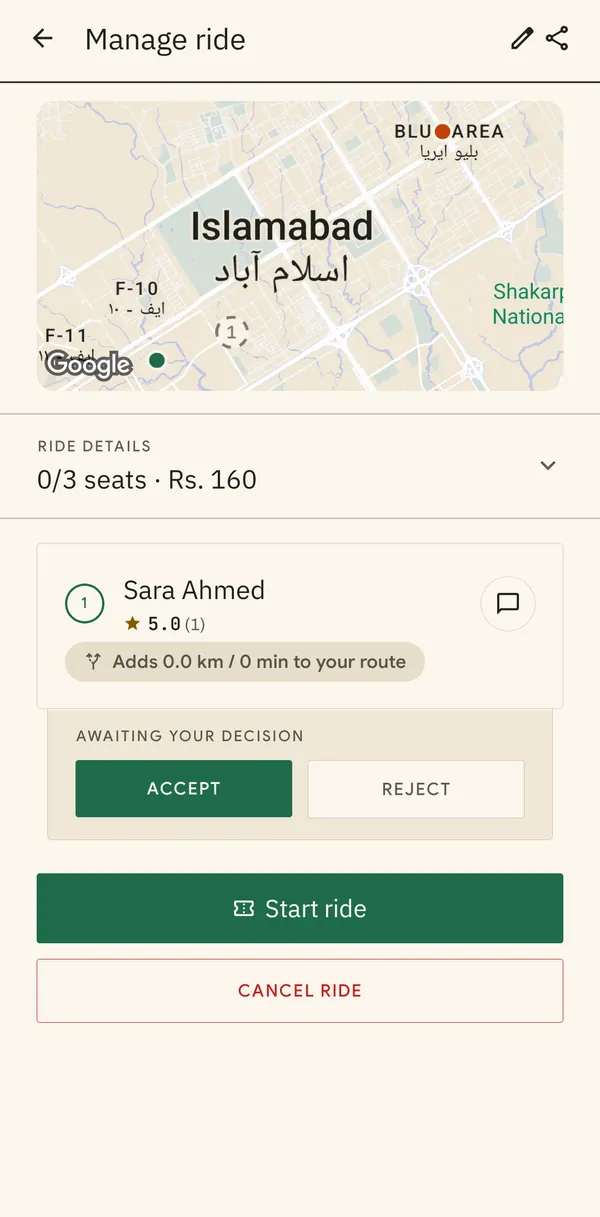
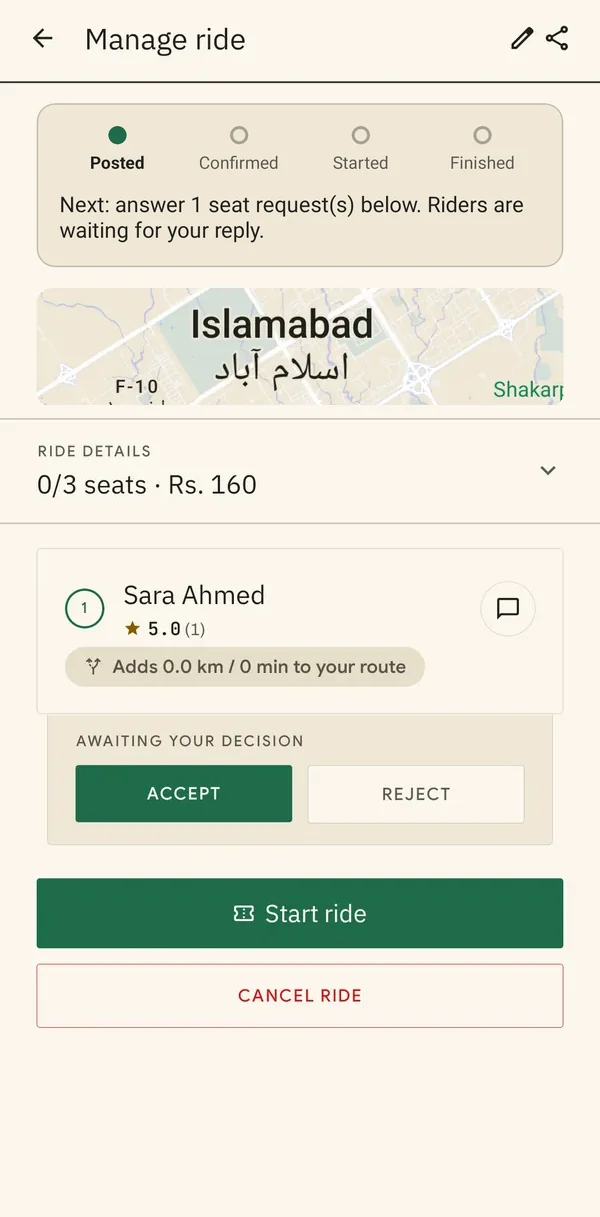
site: Manage ride screenshot shows the vc17 step guide (Posted, Confirmed, Started, Finished); sample data kept, no personal data

diff --git a/index.html b/index.html
@@ -188,8 +188,8 @@
         <figcaption><b>01 / Post a car ride</b><strong>The trip you're already making</strong><span>Pick the pickup and drop-off, the date and time, how many seats you offer and the fare per seat.</span></figcaption></figure>
       <figure class="shot reveal" style="--d:.08s"><div class="phone glow-b"><div class="screen"><img loading="lazy" src="/img/post-bike.webp" width="600" height="1217" alt="Offer a Ride form for a motorbike: one pillion seat"></div></div>
         <figcaption><b>02 / Post a bike ride</b><strong>On a motorbike? Offer your pillion seat</strong><span>A bike carries one passenger, so the app sets the seat for you. Same app, same flow.</span></figcaption></figure>
-      <figure class="shot reveal" style="--d:.16s"><div class="phone glow-b"><div class="screen"><img loading="lazy" src="/img/manage.webp" width="600" height="1217" alt="Manage ride: a request waiting with Accept and Reject buttons, plus Start ride"></div></div>
-        <figcaption><b>03 / Handle requests</b><strong>Accept the ones you want</strong><span>See who is asking and how far they add to your route, then accept or reject.</span></figcaption></figure>
+      <figure class="shot reveal" style="--d:.16s"><div class="phone glow-b"><div class="screen"><img loading="lazy" src="/img/manage.webp" width="600" height="1217" alt="Manage ride: a Posted, Confirmed, Started, Finished step guide, a request waiting with Accept and Reject buttons, plus Start ride"></div></div>
+        <figcaption><b>03 / Handle requests</b><strong>Accept the ones you want</strong><span>See who is asking and how far they add to your route, then accept or reject. A step guide at the top shows what comes next.</span></figcaption></figure>
       <figure class="shot reveal" style="--d:.24s"><div class="phone glow-b"><div class="screen"><img loading="lazy" src="/img/chat.webp" width="600" height="1217" alt="Driver and passenger chat about the pickup point"></div></div>
         <figcaption><b>04 / Coordinate</b><strong>Agree the pickup point</strong><span>One thread per ride, so the details stay together.</span></figcaption></figure>
       <figure class="shot reveal" style="--d:.32s"><div class="phone glow-b"><div class="screen"><img loading="lazy" src="/img/profile.webp" width="600" height="1217" alt="Driver profile showing the vehicle, ride history and usual route"></div></div>
